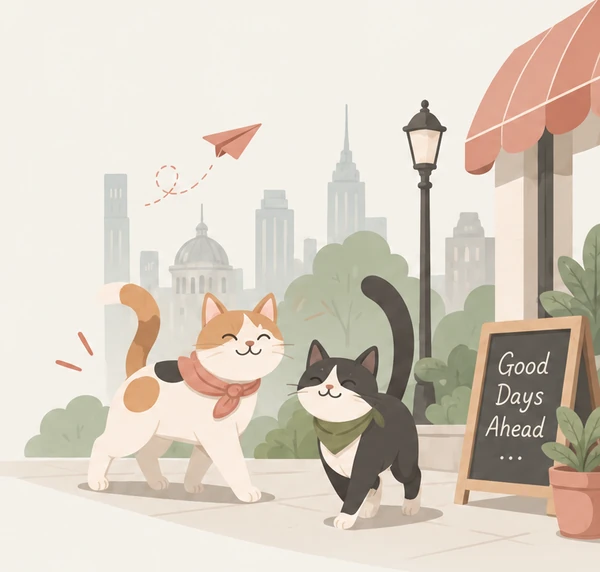
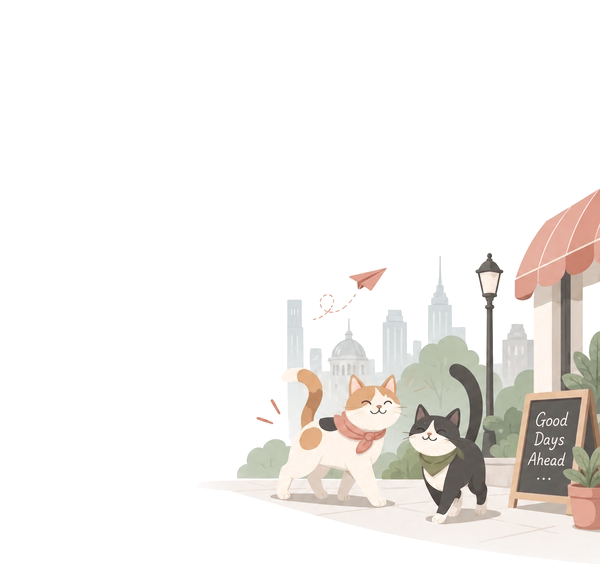
The cats step out from under the status bar, and the night loses its frame (#693)
The paint began at the very top of the frame, so the Dynamic Island
sat on the paper plane; the files now carry a third of empty sky above
the first brushstroke. And on an OLED the night's ground, shifted to
the page colour and encoded lossy, drew a faint rectangle; both files
are keyed to alpha now, so what shows through is the page itself. The
build is a script, so the next render is a command.

Claude-Session: https://claude.ai/code/session_01LFLiGzDK6EkbC1UikBDEFm

diff --git a/app/src/components/IdeasHeaderArt.tsx b/app/src/components/IdeasHeaderArt.tsx
@@ -13,23 +13,32 @@
 //
 // The painting is not a row in the layout. It is pinned to the header's
 // right edge, bleeding past the page padding to the screen edge and up
-// into the status bar, the way the sky in a picture should; the title
-// and the lede are drawn over its empty left quarter. What this
-// component puts *in* the row is a spacer, `reserved` wide, so the title
-// column ends before the cats begin. The title may still overlap the
-// painting by `OVERLAP` points, which is the width of plain sky at its
-// left — measured on both files, and the lede lines are shorter than
-// that margin by half.
+// to the top of the screen; the title and the lede are drawn over its
+// empty left third. What this component puts *in* the row is a spacer,
+// `reserved` wide, so the title column ends before the cats begin. The
+// title may still overlap the painting by `OVERLAP` points, which is
+// less than the plain sky at its left in the rows the title occupies
+// (measured on both files: 38% and 48% of the width), and the lede lines
+// are shorter than that margin by half.
 //
 // Its height follows the band: safe-area inset plus the row's paddings
-// plus the title-and-lede column at one line each. A title that wraps
-// (Japanese does, at 375pt) makes the row taller, the painting keeps its
-// height and its bottom, and what opens above it is a strip of its own
-// sky colour — which is the page colour, so nothing shows. That is why
-// the files were exported with their flat ground shifted onto the page
-// colour exactly (#0A0B0A, #F5F1EA) rather than keyed to alpha: an
-// opaque painting on its own page colour has no edge to hide, and the
-// dark theme's ambient glow lies over both alike.
+// plus the title-and-lede column at one line each. The frame reaches the
+// screen top, but the *paint* does not: the files carry a third of
+// transparent sky above the first brushstroke, so on a phone with a
+// 59pt status bar the plane and the rooftops begin just under it rather
+// than behind it — the first build had them at the very top, and the
+// Dynamic Island sat on the plane. A title that wraps (Japanese does, at
+// 375pt) makes the row taller, the painting keeps its height and its
+// bottom, and the sky above it is transparent anyway.
+//
+// Transparent, because the first build was opaque on a ground shifted
+// to the page colour, and on an OLED the ground was not invisible: the
+// grain of the painting and the ringing of a lossy encoder, at two or
+// three units above black, drew a faint rectangle around the night
+// street. The files are now keyed with colour-to-alpha against the page
+// colour (`scripts/ideas-art.py`): the flat ground is alpha 0, the
+// painting's own fade is partial alpha, and what shows through is the
+// page itself, glow and all. There is no edge left to see.
 //
 // ── when it is not there ──
 //

diff --git a/app/scripts/ideas-art.py b/app/scripts/ideas-art.py
@@ -1,0 +1,76 @@
+#!/usr/bin/env python3
+"""Build the Ideas header paintings from the two source renders.
+
+    python3 scripts/ideas-art.py night.png afternoon.png
+
+Writes assets/ideas-art-dark.webp and assets/ideas-art-light.webp
+(600×572, WebP with alpha) — see src/components/IdeasHeaderArt.tsx for
+how they are laid out and why they are transparent.
+
+Each source is a 1536×1024 render on a flat ground close to the page
+colour, the painting in its right half. The steps, for each:
+
+  1. shift the whole image so the ground lands on the page colour
+     exactly (#0A0B0A for the night, #F5F1EA for the afternoon);
+  2. crop a window of the frame's aspect (600:572) with the paint in its
+     lower two thirds — the top third is what keeps the rooftops from
+     under the status bar — padding with the ground colour where the
+     window runs off the source;
+  3. resize, then key the ground to alpha with colour-to-alpha: the
+     smallest alpha that reproduces each pixel over the page colour,
+     zeroed where the pixel is within three units of it (grain) and
+     ramped to full weight by ten.
+
+The crop windows below were chosen by measuring where the paint is
+(pixels more than twelve units from the ground) so it fills 33%–93% of
+the frame's height; a new render with the cats elsewhere needs them
+re-measured. Needs Pillow and numpy.
+"""
+
+import os
+import sys
+
+import numpy as np
+from PIL import Image
+
+OUT = (600, 572)
+# name, page colour, crop window (x0, y0, x1, y1) on the 1536×1024 source
+JOBS = [
+    ('dark', (0x0A, 0x0B, 0x0A), (581, -300, 1536, 610)),
+    ('light', (0xF5, 0xF1, 0xEA), (331, -342, 1536, 807)),
+]
+
+
+def build(src_path, name, bg, box):
+    src = np.array(Image.open(src_path).convert('RGB')).astype(int)
+    corner = src[src.shape[0] // 2, 5]
+    src = np.clip(src + (np.array(bg) - corner), 0, 255).astype(np.uint8)
+    src = Image.fromarray(src)
+
+    x0, y0, x1, y1 = box
+    canvas = Image.new('RGB', (x1 - x0, y1 - y0), bg)
+    canvas.paste(
+        src.crop((max(x0, 0), max(y0, 0), min(x1, src.width), min(y1, src.height))),
+        (max(0, -x0), max(0, -y0)),
+    )
+    small = np.array(canvas.resize(OUT, Image.LANCZOS)).astype(np.float32)
+
+    b = np.array(bg, dtype=np.float32)
+    d = np.abs(small - b).max(axis=2)
+    up = np.where(small > b, (small - b) / np.maximum(255 - b, 1e-6), 0)
+    dn = np.where(small < b, (b - small) / np.maximum(b, 1e-6), 0)
+    alpha = np.clip(np.max(np.maximum(up, dn), axis=2), 0, 1) * np.clip((d - 3) / 7, 0, 1)
+    colour = np.where(alpha[..., None] > 0, b + (small - b) / np.maximum(alpha[..., None], 1e-6), b)
+    rgba = np.dstack([np.clip(colour, 0, 255), alpha * 255]).astype(np.uint8)
+
+    out = os.path.join(os.path.dirname(__file__), '..', 'assets', f'ideas-art-{name}.webp')
+    Image.fromarray(rgba, 'RGBA').save(out, 'WEBP', quality=90, method=6)
+    ys, xs = np.where(alpha > 0.2)
+    print(f'{name}: {os.path.getsize(out) // 1024} KB; paint from {ys.min() / OUT[1]:.0%} to {ys.max() / OUT[1]:.0%} of the height, from {xs.min() / OUT[0]:.0%} of the width')
+
+
+if __name__ == '__main__':
+    if len(sys.argv) != 3:
+        sys.exit(__doc__)
+    for path, (name, bg, box) in zip(sys.argv[1:], JOBS):
+        build(path, name, bg, box)
